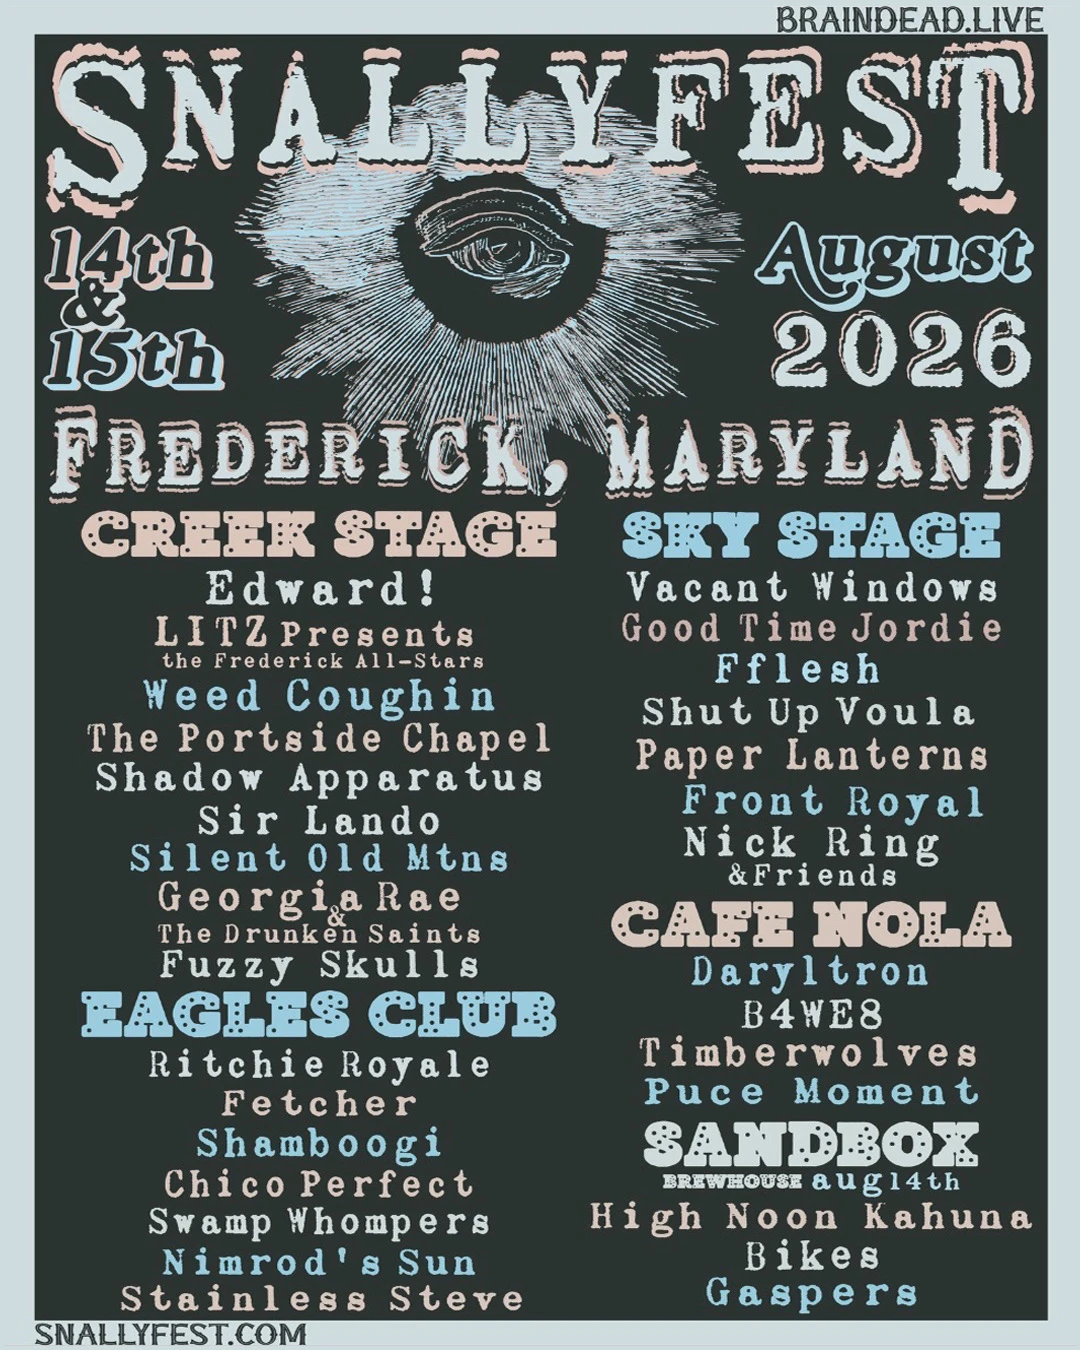
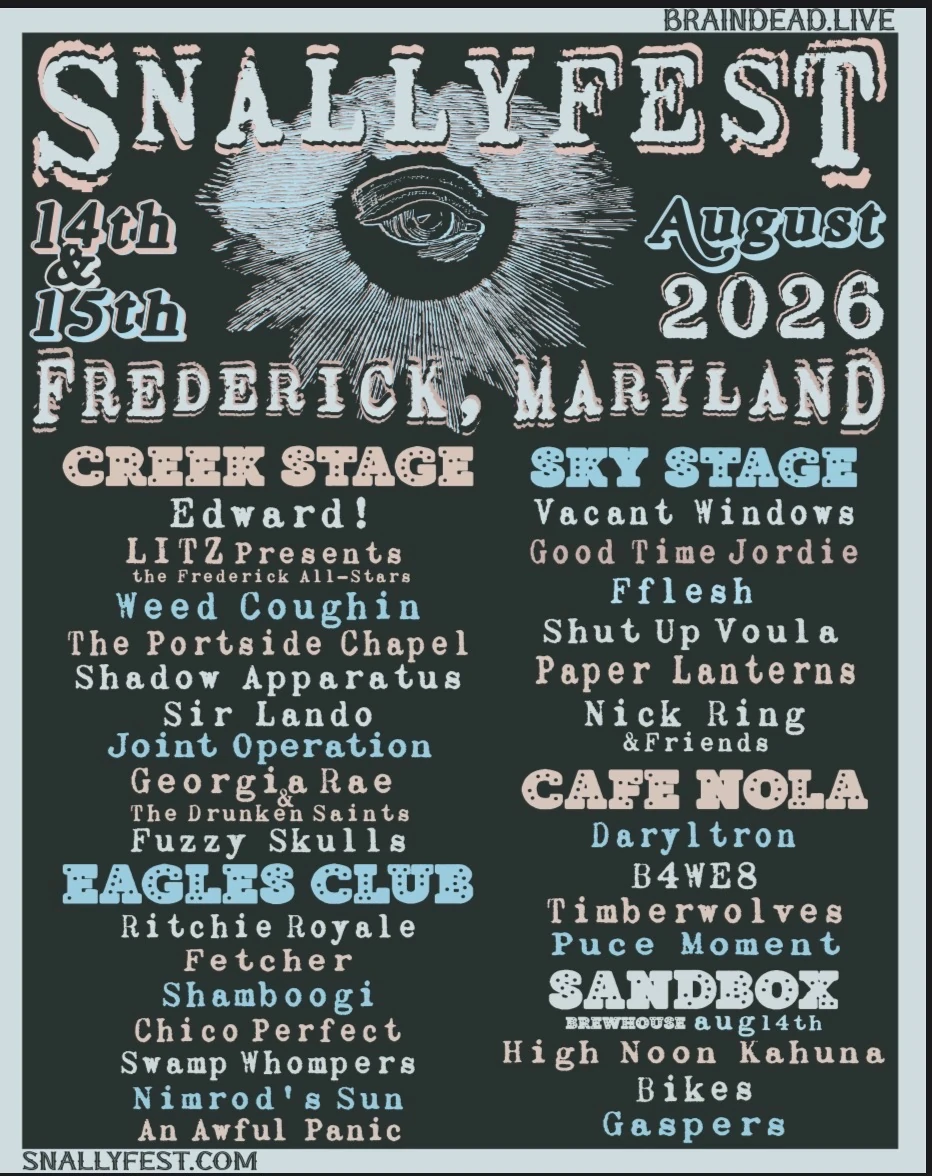
Update flyer art and optimize flyer assets
New 2026 flyer (932x1176, replacing 1080x1350). Re-encoded both
formats: WebP regenerated at q90 (296KB -> 198KB), PNG palettized
to 256 colors (1.31MB -> 533KB). Verified no visible banding in the
woodcut gradients; PSNR 44.1dB PNG / 41.4dB WebP.

Also fix the img width/height, which still described the old flyer's
aspect ratio and reserved a wrong-shaped box, and bump the cachebust
query, which was a fixed string that would not have busted anything.

diff --git a/index.html b/index.html
@@ -283,13 +283,13 @@
     <section class="flyer-section" id="flyer" aria-label="Event poster">
       <div class="container">
         <picture>
-          <source srcset="assets/flyer_2026.webp?cachebust=yes" type="image/webp" />
+          <source srcset="assets/flyer_2026.webp?v=2" type="image/webp" />
           <img
-            src="assets/flyer_2026.png?cachebust=yes"
+            src="assets/flyer_2026.png?v=2"
             alt="Snallyfest 2026 official lineup poster — August 14 &amp; 15, Frederick Maryland — featuring Edward!, LITZ, Weed Coughin, Good Time Jordie, and 30+ more bands across 5 venues"
             class="flyer-img"
-            width="1080"
-            height="1350"
+            width="932"
+            height="1176"
             loading="eager"
           />
         </picture>
